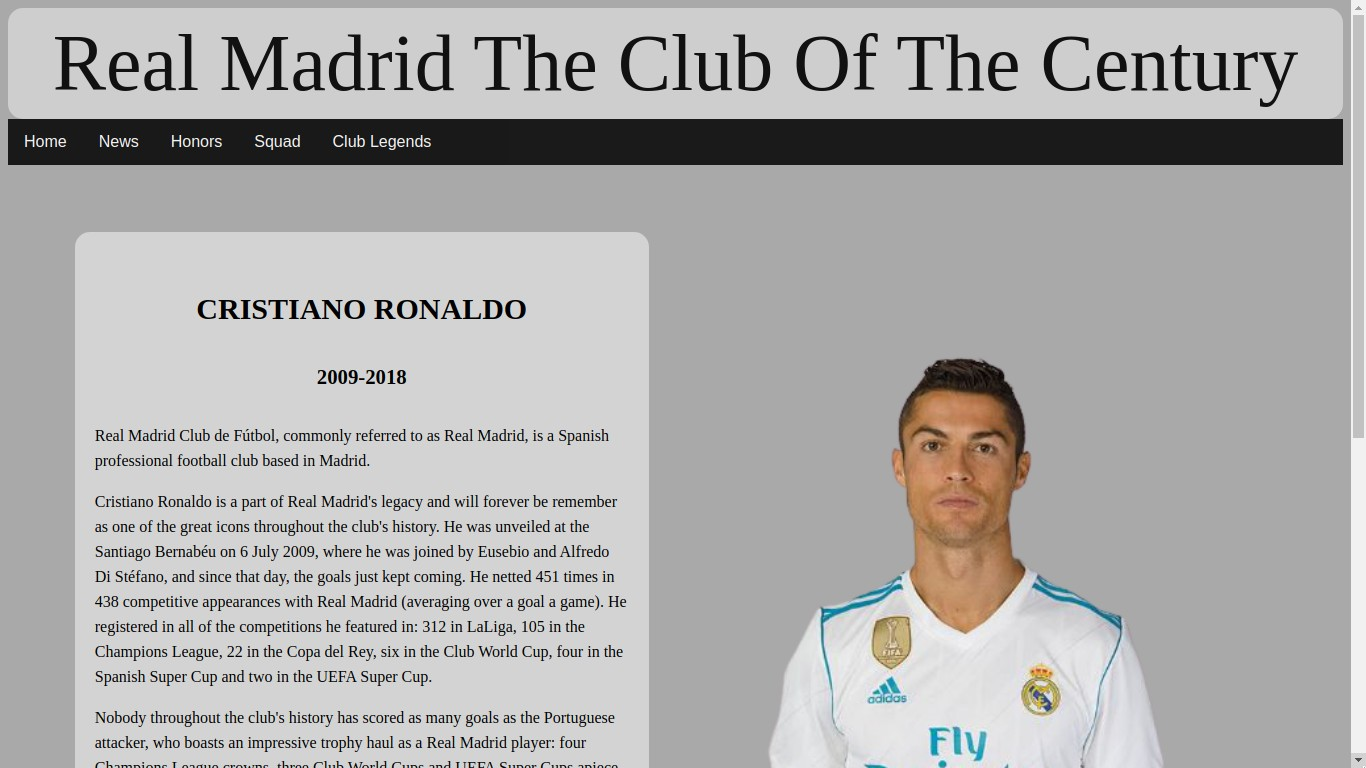
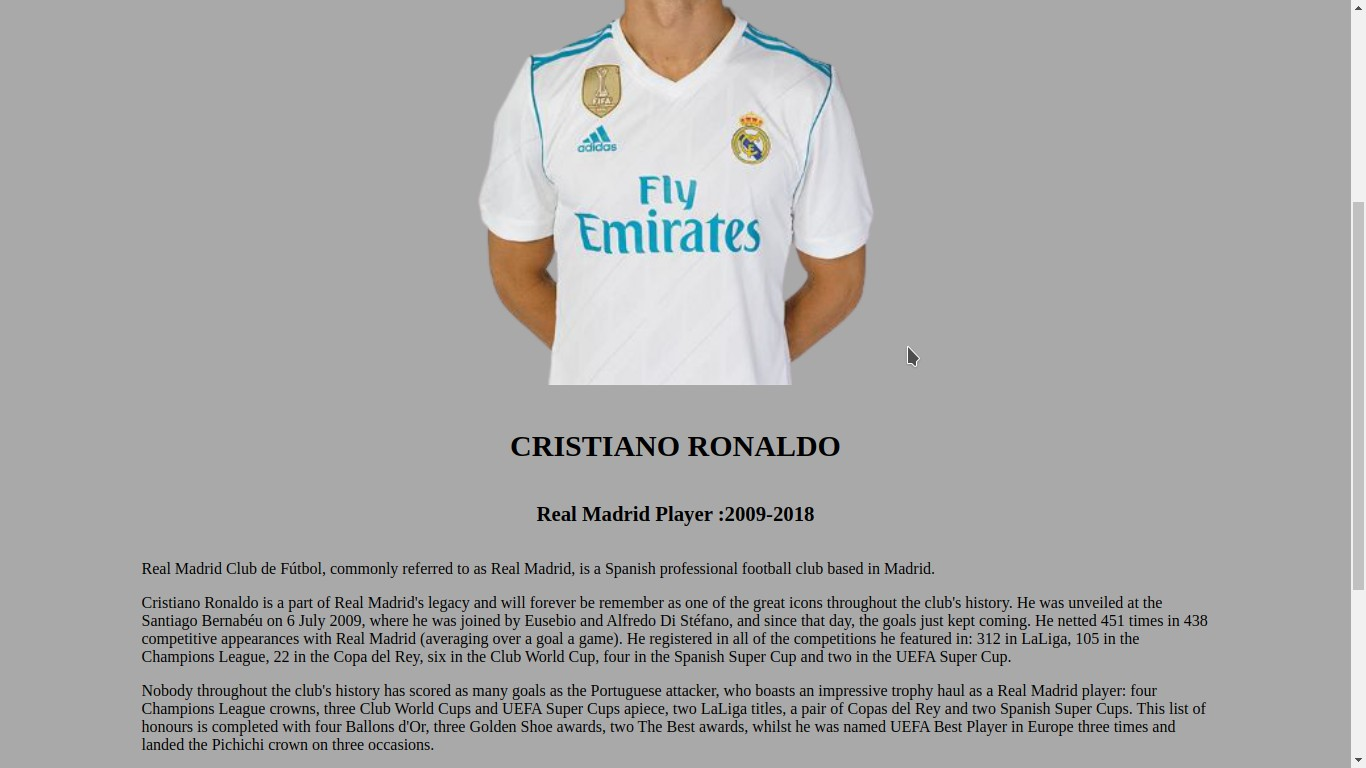
Mobile friendly feature added.

diff --git a/html/zidane.html b/html/zidane.html
@@ -30,30 +30,32 @@
         </div>
       </div>
     </div>
-    <div class="photo">
-      <img src="../img/legends/zidane.png" alt="zidane" width="500">
-    </div>
-    <div class="intro">
-      <div class="lname"><h4>ZINEDINE ZIDANE</h4></div>
-      <div class="year"><h5>2001-2006</h5></div>
-      <p>
-        Real Madrid Club de Fútbol, commonly referred to as Real Madrid, is a Spanish professional football club based in Madrid.
-      </p>
-      <p>
-        A genius. Zinedine Zidane marked an era in world football with his elegance and technical skills. Blessed with natural talent for this sport, the French midfielder won everything that could possibly be won, both with his clubs as well as with the French national team. A magical player who elected to close out his historic sporting career at Real Madrid, together conquering the 2002 Champions League title.
-      </p>
-      <p>
-        Zidane, of Algerian origin, was raised in Marseille. He began playing with the youth teams of his native city, from where he went to Cannes, with whom he made his debut in the French first division at the age of 17. In 1992, after the relegation of his previous club, he signed with Girondins Bordeaux. It was there that he began to attain international recognition.
-      </p>
-      <p>
-        In 1996, after playing the UEFA Cup final with Girondins, and the European Championships with France, he signed with Juventus. His spell playing for the Turin based club, where he won the Ballon d'Or in 1998, would coincide with one of the French national team’s greatest periods. Zidane guided ‘Les bleus’ to victories in the 1998 World Cup and 2000 European Championship. These triumphs confirmed his status as the world’s best player at the time, and awoke an interest in Real Madrid. The president, Florentino Perez, completed his signing in July 2001.
-      </p>
-      <p>
-        “I wanted to win the European Cup and I wanted to win it with Real Madrid”, he declared during his official presentation as a Madrid player. He was not mistaken. One year later he won the European Cup title, the only trophy he was missing, scoring the decisive goal against Bayer Leverkusen. Zidane masterly struck home a left-foot volley from a bombarded pass from Roberto Carlos. Pure magic.
-      </p>
-      <p>
-        Zizou retired from football after playing in the 2006 World Cup final in Germany. Real Madrid was his last team, with whom he would conquer six titles. The French genius has maintained his ties with the club by working as a presidential adviser, assistant first team manager, manager of Castilla and currently, as manager of the first team.In 2017 he claimed The Best FIFA Men's Coach award. He completed his second stint at the Real Madrid helm between 11 March 2019 and May 2021.
-      </p>
+    <div class="container">
+      <div class="photo">
+        <img src="../img/legends/zidane.png" alt="zidane" width="500">
+      </div>
+      <div class="intro">
+        <div class="lname"><h4>ZINEDINE ZIDANE</h4></div>
+        <div class="year"><h5>Real Madrid Player: 2001-2006</h5></div>
+        <p>
+          Real Madrid Club de Fútbol, commonly referred to as Real Madrid, is a Spanish professional football club based in Madrid.
+        </p>
+        <p>
+          A genius. Zinedine Zidane marked an era in world football with his elegance and technical skills. Blessed with natural talent for this sport, the French midfielder won everything that could possibly be won, both with his clubs as well as with the French national team. A magical player who elected to close out his historic sporting career at Real Madrid, together conquering the 2002 Champions League title.
+        </p>
+        <p>
+          Zidane, of Algerian origin, was raised in Marseille. He began playing with the youth teams of his native city, from where he went to Cannes, with whom he made his debut in the French first division at the age of 17. In 1992, after the relegation of his previous club, he signed with Girondins Bordeaux. It was there that he began to attain international recognition.
+        </p>
+        <p>
+          In 1996, after playing the UEFA Cup final with Girondins, and the European Championships with France, he signed with Juventus. His spell playing for the Turin based club, where he won the Ballon d'Or in 1998, would coincide with one of the French national team’s greatest periods. Zidane guided ‘Les bleus’ to victories in the 1998 World Cup and 2000 European Championship. These triumphs confirmed his status as the world’s best player at the time, and awoke an interest in Real Madrid. The president, Florentino Perez, completed his signing in July 2001.
+        </p>
+        <p>
+          “I wanted to win the European Cup and I wanted to win it with Real Madrid”, he declared during his official presentation as a Madrid player. He was not mistaken. One year later he won the European Cup title, the only trophy he was missing, scoring the decisive goal against Bayer Leverkusen. Zidane masterly struck home a left-foot volley from a bombarded pass from Roberto Carlos. Pure magic.
+        </p>
+        <p>
+          Zizou retired from football after playing in the 2006 World Cup final in Germany. Real Madrid was his last team, with whom he would conquer six titles. The French genius has maintained his ties with the club by working as a presidential adviser, assistant first team manager, manager of Castilla and currently, as manager of the first team.In 2017 he claimed The Best FIFA Men's Coach award. He completed his second stint at the Real Madrid helm between 11 March 2019 and May 2021.
+        </p>
+      </div>
     </div>
 </body>
 </html>

diff --git a/html/ronaldo.html b/html/ronaldo.html
@@ -30,28 +30,30 @@
         </div>
       </div>
     </div>
-    <div class="photo">
-      <img src="../img/legends/cr7.png" alt="Ronaldo" width="500">
-    </div>
-    <div class="intro">
-      <div class="lname"><h4>CRISTIANO RONALDO</h4></div>
-      <div class="year"><h5>2009-2018</h5></div>
-      <p>
-        Real Madrid Club de Fútbol, commonly referred to as Real Madrid, is a Spanish professional football club based in Madrid.
-      </p>
-      <p>
-        Cristiano Ronaldo is a part of Real Madrid's legacy and will forever be remember as one of the great icons throughout the club's history. He was unveiled at the Santiago Bernabéu on 6 July 2009, where he was joined by Eusebio and Alfredo Di Stéfano, and since that day, the goals just kept coming. He netted 451 times in 438 competitive appearances with Real Madrid (averaging over a goal a game). He registered in all of the competitions he featured in: 312 in LaLiga, 105 in the Champions League, 22 in the Copa del Rey, six in the Club World Cup, four in the Spanish Super Cup and two in the UEFA Super Cup.
-      </p>
-      <p>
-        Nobody throughout the club's history has scored as many goals as the Portuguese attacker, who boasts an impressive trophy haul as a Real Madrid player: four Champions League crowns, three Club World Cups and UEFA Super Cups apiece, two LaLiga titles, a pair of Copas del Rey and two Spanish Super Cups. This list of honours is completed with four Ballons d'Or, three Golden Shoe awards, two The Best awards, whilst he was named UEFA Best Player in Europe three times and landed the Pichichi crown on three occasions.
-      </p>
-      <p>
-        <b>A spell full of records</b><br>
-        During the course of his nine seasons as a Real Madrid player, Ronaldo secured a number of impressive records: the club's all-time leading goalscorer, the leading marksmen in European Cup history (he scored 105 goals for Real Madrid in the Champions League); the all-time leading madridista goalscorer in LaLiga (312); highest number of games in which a player has scored three or more times in LaLiga history (34); and the most goals to have been scored by a Real Madrid player in a single season (61).
-      </p>
-      <p>
-        During his time at the club, he also clinched the record for the most goals scored in a Champions League campaign (17) and ended the competition as the leading goalscorer on six occasions. Club president Florentino Pérez labelled him as "the heir to Alfredo Di Stéfano”, and just like Don Alfredo, he has left an indelible mark on the history of the best club in the world.
-      </p>
+    <div class="container">
+      <div class="photo">
+        <img src="../img/legends/cr7.png" alt="Ronaldo" width="500">
+      </div>
+      <div class="intro">
+        <div class="lname"><h4>CRISTIANO RONALDO</h4></div>
+        <div class="year"><h5>Real Madrid Player :2009-2018</h5></div>
+        <p>
+          Real Madrid Club de Fútbol, commonly referred to as Real Madrid, is a Spanish professional football club based in Madrid.
+        </p>
+        <p>
+          Cristiano Ronaldo is a part of Real Madrid's legacy and will forever be remember as one of the great icons throughout the club's history. He was unveiled at the Santiago Bernabéu on 6 July 2009, where he was joined by Eusebio and Alfredo Di Stéfano, and since that day, the goals just kept coming. He netted 451 times in 438 competitive appearances with Real Madrid (averaging over a goal a game). He registered in all of the competitions he featured in: 312 in LaLiga, 105 in the Champions League, 22 in the Copa del Rey, six in the Club World Cup, four in the Spanish Super Cup and two in the UEFA Super Cup.
+        </p>
+        <p>
+          Nobody throughout the club's history has scored as many goals as the Portuguese attacker, who boasts an impressive trophy haul as a Real Madrid player: four Champions League crowns, three Club World Cups and UEFA Super Cups apiece, two LaLiga titles, a pair of Copas del Rey and two Spanish Super Cups. This list of honours is completed with four Ballons d'Or, three Golden Shoe awards, two The Best awards, whilst he was named UEFA Best Player in Europe three times and landed the Pichichi crown on three occasions.
+        </p>
+        <p>
+          <b>A spell full of records</b><br>
+          During the course of his nine seasons as a Real Madrid player, Ronaldo secured a number of impressive records: the club's all-time leading goalscorer, the leading marksmen in European Cup history (he scored 105 goals for Real Madrid in the Champions League); the all-time leading madridista goalscorer in LaLiga (312); highest number of games in which a player has scored three or more times in LaLiga history (34); and the most goals to have been scored by a Real Madrid player in a single season (61).
+        </p>
+        <p>
+          During his time at the club, he also clinched the record for the most goals scored in a Champions League campaign (17) and ended the competition as the leading goalscorer on six occasions. Club president Florentino Pérez labelled him as "the heir to Alfredo Di Stéfano”, and just like Don Alfredo, he has left an indelible mark on the history of the best club in the world.
+        </p>
+      </div>
     </div>
 </body>
 </html>

diff --git a/html/raul.html b/html/raul.html
@@ -30,27 +30,29 @@
         </div>
       </div>
     </div>
-    <div class="photo">
-      <img src="../img/legends/raul.png" alt="raul" width="500">
-    </div>
-    <div class="intro">
-      <div class="lname"><h4>RAÚL GONZÁLEZ BLANCO</h4></div>
-      <div class="year"><h5>1992-2010</h5></div>
-      <p>
-        Real Madrid Club de Fútbol, commonly referred to as Real Madrid, is a Spanish professional football club based in Madrid.
-      </p>
-      <p>
-        A Real Madrid symbol. The eternal captain who represented Madrid’s values on the pitch. Raul was a forward with an almost infinite instinct. He was an example for everyone, putting in the maximum effort in every game, irrespective of the opponent. He would give it his all, having an insatiable appetite, something that was evident with each action. He was always alert for rebounds. An excellent role-model for anyone who has ever dreamt of being a footballer.
-      </p>
-      <p>
-        He was born in Madrid in 1977, in the suburb of San Cristóbal de los Ángeles. Ever since he was a child he showed a passion for football, and he excelled, a champion in the making. Initially playing for Atlético Madrid, he signed on with the Whites’ youth teams during the 1992/93 season. He scored 13 goals in seven games. With these references, Jorge Valdano made him debut with the first team the following season.
-      </p>
-      <p>
-        On 29 October 1994 Raúl lived his first great moment with the Whites’ shirt. The forward made his debut at La Romareda Stadium. A week later he played his first derby against Atlético Madrid at the Bernabéu. He scored his first goal with a spectacular left-foot shot from the edge of the area. It went into the top corner, and contributed to his team’s victory (4-2), who went on to win La Liga title that season.
-      </p>
-      <p>
-        Acclaimed in Spain, he conquered Europe. He played his first Champions League game at the age of 18. On 20 May 1998 he was in the team that won the club’s Seventh European Cup title beating Juventus Turin in the final. He repeated the experience in May of 2000 and 2002, scoring in both finals. He is one of the few players to have earned 100 caps with the Spanish national team. He was the symbol of the national team, as well as of every other team in which he has played, Schalke 04 and Al-Sadd Sports Club.
-      </p>
+    <div class="container">
+      <div class="photo">
+        <img src="../img/legends/raul.png" alt="raul" width="500">
+      </div>
+      <div class="intro">
+        <div class="lname"><h4>RAÚL GONZÁLEZ BLANCO</h4></div>
+        <div class="year"><h5>Real Madrid Player : 1992-2010</h5></div>
+        <p>
+          Real Madrid Club de Fútbol, commonly referred to as Real Madrid, is a Spanish professional football club based in Madrid.
+        </p>
+        <p>
+          A Real Madrid symbol. The eternal captain who represented Madrid’s values on the pitch. Raul was a forward with an almost infinite instinct. He was an example for everyone, putting in the maximum effort in every game, irrespective of the opponent. He would give it his all, having an insatiable appetite, something that was evident with each action. He was always alert for rebounds. An excellent role-model for anyone who has ever dreamt of being a footballer.
+        </p>
+        <p>
+          He was born in Madrid in 1977, in the suburb of San Cristóbal de los Ángeles. Ever since he was a child he showed a passion for football, and he excelled, a champion in the making. Initially playing for Atlético Madrid, he signed on with the Whites’ youth teams during the 1992/93 season. He scored 13 goals in seven games. With these references, Jorge Valdano made him debut with the first team the following season.
+        </p>
+        <p>
+          On 29 October 1994 Raúl lived his first great moment with the Whites’ shirt. The forward made his debut at La Romareda Stadium. A week later he played his first derby against Atlético Madrid at the Bernabéu. He scored his first goal with a spectacular left-foot shot from the edge of the area. It went into the top corner, and contributed to his team’s victory (4-2), who went on to win La Liga title that season.
+        </p>
+        <p>
+          Acclaimed in Spain, he conquered Europe. He played his first Champions League game at the age of 18. On 20 May 1998 he was in the team that won the club’s Seventh European Cup title beating Juventus Turin in the final. He repeated the experience in May of 2000 and 2002, scoring in both finals. He is one of the few players to have earned 100 caps with the Spanish national team. He was the symbol of the national team, as well as of every other team in which he has played, Schalke 04 and Al-Sadd Sports Club.
+        </p>
+      </div>
     </div>
 </body>
 </html>

diff --git a/html/casillas.html b/html/casillas.html
@@ -30,27 +30,29 @@
         </div>
       </div>
     </div>
-    <div class="photo">
-      <img src="../img/legends/casillas.png" alt="casillas" width="500">
-    </div>
-    <div class="intro">
-      <div class="lname"><h4>IKER CASILLAS FERNÁNDEZ</h4></div>
-      <div class="year"><h5>1999-2015</h5></div>
-      <p>
-        Real Madrid Club de Fútbol, commonly referred to as Real Madrid, is a Spanish professional football club based in Madrid.
-      </p>
-      <p>
-        A Madrid legend, Iker Casillas is the best goalkeeper in Real Madrid's history and in the history of Spanish football. He arrived at the club aged 9 and wore the Whites shirt for 25 years. Throughout that time he became one of the benchmarks in the club's history, winning the respect, affection and admiration of Madrid supporters.
-      </p>
-      <p>
-        He made his debut with the first team in 12 September 1999 at the San Mamés and went on to play in 725 official games, winning 19 titles. In addition to those triumphs he also won 1 World Cup and 2 European Championships with the Spain first team.
-      </p>
-      <p>
-        Madrid fans will never forget the images of the captain lifting those trophies, and nor will they forget his incredible stops. His saves have led Real Madrid to many victories, such as in the final of La Novena against Bayer Leverkusen.
-      </p>
-      <p>
-        He was included in the FIFA FIFPro World XI on 5 occasions and was also named best goalkeeper in the world 5 times by the IFFHS. In his individual trophy cabinet he also has 1 Bravo Award and 1 Zamora Trophy. His impressive sporting career has been recognised with the Prince of Asturias Award for Sports, the Royal Order of Sports Merit and the Community of Madrid's Gold Medal.
-      </p>
+    <div class="container">
+      <div class="photo">
+        <img src="../img/legends/casillas.png" alt="casillas" width="500">
+      </div>
+      <div class="intro">
+        <div class="lname"><h4>IKER CASILLAS FERNÁNDEZ</h4></div>
+        <div class="year"><h5>Real Madrid Player :1999-2015</h5></div>
+        <p>
+          Real Madrid Club de Fútbol, commonly referred to as Real Madrid, is a Spanish professional football club based in Madrid.
+        </p>
+        <p>
+          A Madrid legend, Iker Casillas is the best goalkeeper in Real Madrid's history and in the history of Spanish football. He arrived at the club aged 9 and wore the Whites shirt for 25 years. Throughout that time he became one of the benchmarks in the club's history, winning the respect, affection and admiration of Madrid supporters.
+        </p>
+        <p>
+          He made his debut with the first team in 12 September 1999 at the San Mamés and went on to play in 725 official games, winning 19 titles. In addition to those triumphs he also won 1 World Cup and 2 European Championships with the Spain first team.
+        </p>
+        <p>
+          Madrid fans will never forget the images of the captain lifting those trophies, and nor will they forget his incredible stops. His saves have led Real Madrid to many victories, such as in the final of La Novena against Bayer Leverkusen.
+        </p>
+        <p>
+          He was included in the FIFA FIFPro World XI on 5 occasions and was also named best goalkeeper in the world 5 times by the IFFHS. In his individual trophy cabinet he also has 1 Bravo Award and 1 Zamora Trophy. His impressive sporting career has been recognised with the Prince of Asturias Award for Sports, the Royal Order of Sports Merit and the Community of Madrid's Gold Medal.
+        </p>
+      </div>
     </div>
 </body>
 </html>

diff --git a/css/style_legends.css b/css/style_legends.css
@@ -17,27 +17,15 @@ body {
 }
 
 
-/* Club legend information*/
-.body .intro{
-  width: 40%;
-  background-color: lightgrey;
-  color: black;
-  font: normal 16px Arial sans-serif;
-  line-height: 1.6em;
-  padding: 20px;
-  border-radius:  15px;
-  margin: 5%;
-}
-
-/* Club legend photo*/
-.photo{
-  position: absolute;
-  top: 45%;
-  right: 10%;
+.container{
+  display: flex;
+  flex-direction: row-reverse;
+  justify-content: space-evenly;
+  flex-wrap: wrap;
 }
 
 /* Club legend name in text box*/
-.body .intro .lname{
+.lname{
   color: black;
   padding: none;
   font: normal 30px Arial sans-serif;
@@ -45,11 +33,15 @@ body {
 }
 
 /* Club legend duration in club in text box*/
-.body .intro .year{
+.year{
   color: black;
   padding: none;
   font: normal 25px Arial sans-serif;
   text-align: center;
+}
+
+.intro{
+  margin:0 10% 10% 10%;
 }
 
 

diff --git a/css/style_indi_player.css b/css/style_indi_player.css
@@ -70,29 +70,6 @@ body {
   display: block;
 }
 
-/* Table's rows */
-.ptable th, td {
-  padding: 15px;
-  text-align: left;
-}
-
-/* Player's image */
-.photo{
-  position: absolute;
-  top: 45%;
-  right: 10%;
-}
-
-/* Player info table */
-.ptable {
-  background-color: lightgrey;
-  position: absolute;
-  top: 30%;
-  left: 10%;
-  margin: 5%;
-}
-
-/* Player's name */
 .pname {
   color: black;
   padding: none;
@@ -101,4 +78,17 @@ body {
   position: absolute;
   top: 10%;
   left: 40%;
+}
+
+.player{
+  display: flex;
+  margin:10%;
+  flex-direction: row-reverse;
+  justify-content: space-evenly;
+  flex-wrap: wrap;
+}
+
+.ptable th, td {
+  padding: 15px;
+  text-align: left;
 }
